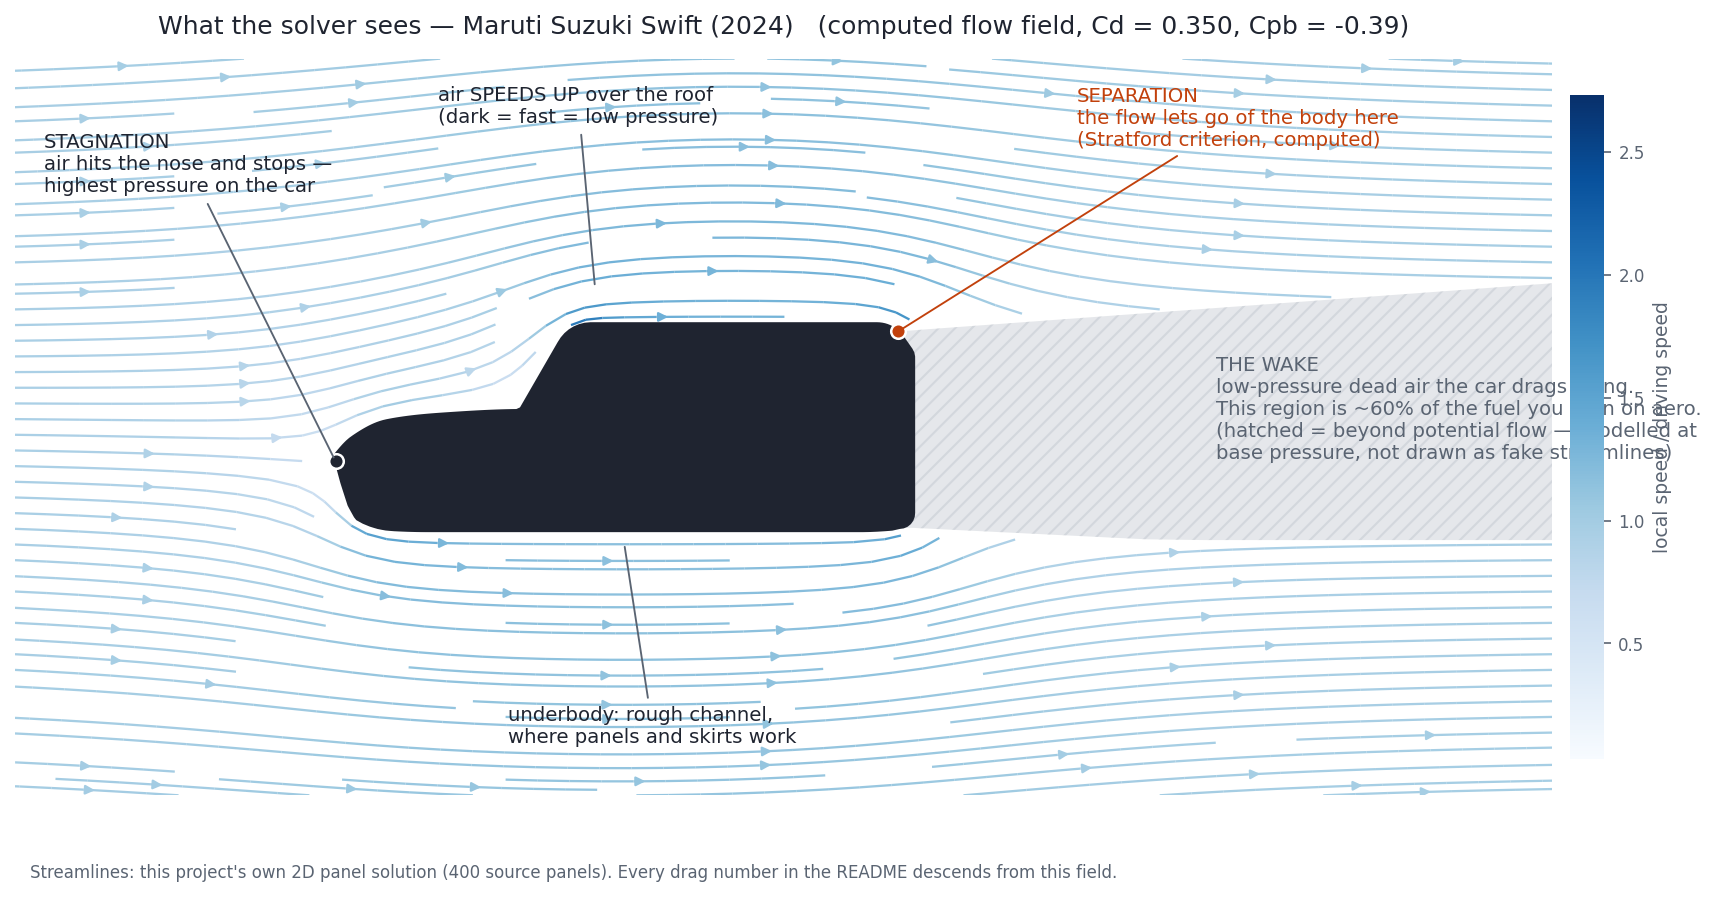
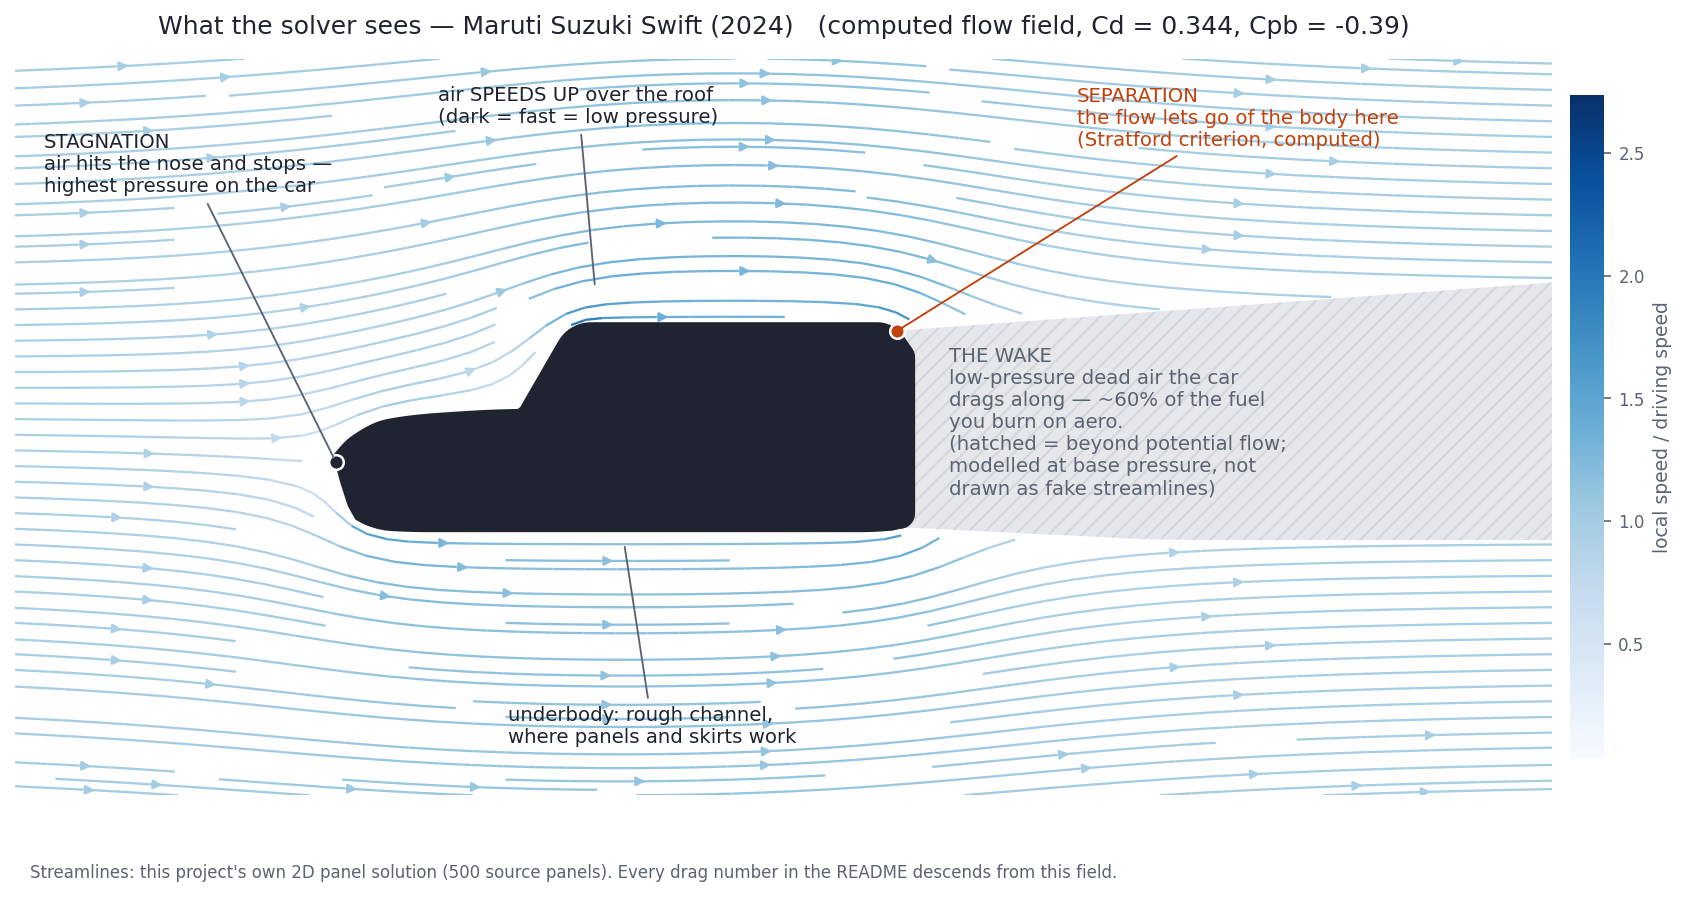
Fix flow figure: label collision, panel-count mismatch, stagnation marker
Three defects visible only by looking at the rendered output. The wake label
ran under the colorbar and clipped mid-word; shorter lines, anchored inside
the wake. The static figure rendered at 400 panels while the validation table
uses 500, so the title said Cd = 0.350 against the README's 0.344 - two
official numbers for one car. And at 500 panels the global Cp argmax lands on
the windshield root (a genuine secondary stagnation region), which put a
marker reading "air hits the nose" on the glass; the marker now picks the
primary stagnation point from the front quarter of the body.

diff --git a/core/flowviz.py b/core/flowviz.py
@@ -99,7 +99,7 @@ def _wake_polygon(coords, meta, sep_idx, pg, x_max):
     return np.array(top + bot + tail)
 
 
-def render_flow(car_key: str = "maruti_swift", n_panels: int = 400,
+def render_flow(car_key: str = "maruti_swift", n_panels: int = 500,
                 save_png: str = None, save_gif: str = None,
                 gif_seconds: float = 4.0, verbose: bool = True):
     """Render the annotated flow field (PNG) and particle animation (GIF)."""
@@ -131,8 +131,14 @@ def render_flow(car_key: str = "maruti_swift", n_panels: int = 400,
     U_draw = np.where(in_body | in_wake, np.nan, U)
     V_draw = np.where(in_body | in_wake, np.nan, V)
 
-    x_stag = float(pg["xc"][np.argmax(result["Cp"])])
-    y_stag = float(pg["yc"][np.argmax(result["Cp"])])
+    # The stagnation marker: the global argmax of Cp can land on the windshield
+    # root (a genuine secondary stagnation region on a real car), which makes a
+    # label that says "the nose" point at the glass. Restrict to the front 25%
+    # of the body so the marker names the primary stagnation point.
+    front = np.where(pg["xc"] < 0.25)[0]
+    i_stag = int(front[np.argmax(result["Cp"][front])])
+    x_stag = float(pg["xc"][i_stag])
+    y_stag = float(pg["yc"][i_stag])
     x_sep, y_sep = float(pg["xc"][sep]), float(pg["yc"][sep])
 
     def draw_scene(ax):
@@ -177,11 +183,16 @@ def render_flow(car_key: str = "maruti_swift", n_panels: int = 400,
                     xy=(x_sep, y_sep), xytext=(1.28, 0.70),
                     fontsize=9.5, color=ACCENT, zorder=6,
                     arrowprops=dict(arrowstyle="-", color=ACCENT, lw=0.9))
-        ax.text(1.52, 0.16,
-                "THE WAKE\nlow-pressure dead air the car drags along.\n"
-                "This region is ~60% of the fuel you burn on aero.\n"
-                "(hatched = beyond potential flow — modelled at\n"
-                "base pressure, not drawn as fake streamlines)",
+        # keep the wake label clear of the colorbar on the right edge:
+        # short lines, anchored just aft of the base
+        ax.text(1.06, 0.10,
+                "THE WAKE\n"
+                "low-pressure dead air the car\n"
+                "drags along — ~60% of the fuel\n"
+                "you burn on aero.\n"
+                "(hatched = beyond potential flow;\n"
+                "modelled at base pressure, not\n"
+                "drawn as fake streamlines)",
                 fontsize=9.5, color=INK_MUTED, zorder=6)
         ax.annotate("underbody: rough channel,\nwhere panels and skirts work",
                     xy=(0.5, meta["clearance_norm"] - 0.02),
@@ -193,9 +204,9 @@ def render_flow(car_key: str = "maruti_swift", n_panels: int = 400,
             f"Cpb = {result['Cpb']:.2f})",
             fontsize=12, color=INK, pad=12)
         fig.text(0.02, 0.015,
-                 "Streamlines: this project's own 2D panel solution "
-                 "(400 source panels). Every drag number in the README "
-                 "descends from this field.",
+                 f"Streamlines: this project's own 2D panel solution "
+                 f"({n_panels} source panels). Every drag number in the "
+                 f"README descends from this field.",
                  fontsize=8, color=INK_MUTED)
         plt.tight_layout()
         fig.savefig(save_png, dpi=150, bbox_inches="tight",